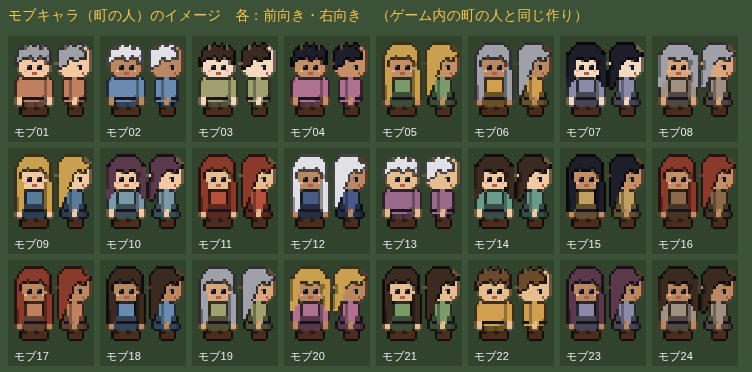
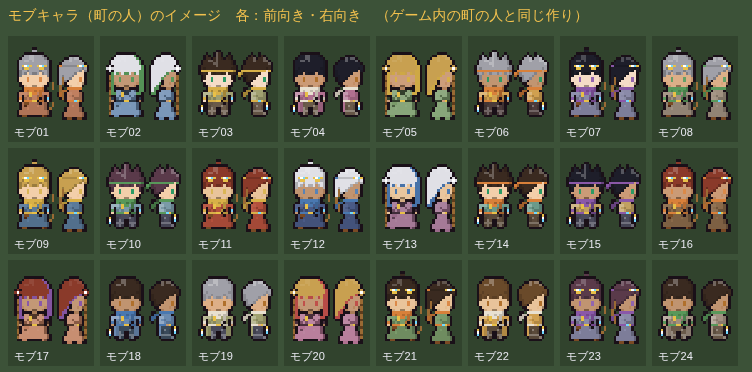
モブキャラを、ユーリ・ミナと同じ2頭身の作り（素体4種＋色の塗り替え）にする
Claude-Session: https://claude.ai/code/session_01TUFd7hBfF9NNQ4kEakAJkw

diff --git a/src/game/sprite/mob-walker-data.generated.ts b/src/game/sprite/mob-walker-data.generated.ts
@@ -1,0 +1,9 @@
+// 自動生成: tools/pixel-art/export_mob_walkers.py（手で編集しない）。町の人（モブ）の2頭身の素体4種
+export interface MobTemplate {
+  palette: string[];
+  roles: string[];
+  shade: number[];
+  frames: Record<string, string[]>;
+}
+
+export const MOB_TEMPLATES: Record<string, MobTemplate> = {"reto": {"palette": ["#1a1018", "#7a2020", "#c9434b", "#4d1219", "#e8b890", "#b0702c", "#c69266", "#e88468", "#904a3a", "#9a1c22", "#610f1d", "#85868b", "#4e4e52", "#e8c048", "#303133", "#5a3820", "#5a4030", "#38241d", "#a5735c", "#ffffff", "#70d8ff", "#b36b43", "#391e13", "#ffffff", "#1d3f9a", "#4d7bff", "#8ee6ff", "#5a1410", "#b8321a", "#ff7a2a", "#ffd36b"], "roles": ["fixed", "hair", "hair", "hair", "skin", "fixed", "skin", "skin", "skin", "accent", "accent", "top", "top", "fixed", "top", "bottom", "bottom", "bottom", "bottom", "fixed", "fixed", "bottom", "bottom", "fixed", "fixed", "fixed", "fixed", "fixed", "fixed", "fixed", "fixed"], "shade": [0.0, 0.0, 0.279, -0.145, 0.098, 0.0, -0.088, 0.0, -0.328, 0.0, -0.172, 0.275, 0.0, 0.0, -0.15, -0.039, 0.0, -0.13, 0.292, 0.0, 0.0, 0.265, -0.152, 0.0, 0.0, 0.0, 0.0, 0.0, 0.0, 0.0, 0.0], "frames": {"down0": ["................", "................", "................", "................", "....AAAAAAAA....", "...ABBCCBBBDA...", "..ABBBCCBBBBDA..", ".ABBCCBCBBBBBDA.", ".ABBBBBBBBBBBDA.", ".ABBBBBBBBBBBDA.", ".ABDBBBBBBBBDDA.", ".ADBBDBBBBDBBDA.", ".ADBDEBDDBEDBDA.", ".ADEEEEEEEEEEDA.", ".AEEEFEEEEFEEGA.", ".AEEEFEEEEFEEGA.", "..AHEEEEEEEEHA..", "..AAGEEIIEEGAA..", "...AJJJJJJJKA...", "..AAJKJJKJKKAA..", ".ALLLMNJJMKMMMA.", ".ALAMONMMOKOAMA.", ".AJAOMOMMKAOAKA.", ".AEAJJJNNAKKAGA.", ".AAMOPQQQRAOOA..", "ANAMOQQQQSQOOA..", "ATAMOSQAAQQOOA..", "AUAMOVVAAVVOOA..", ".A.AAVWAAPVAA...", "....AAA..AAA....", "................", "................"], "down1": ["................", "................", "................", "................", "....AAAAAAAA....", "...ABBCCBBBDA...", "..ABBBCCBBBBDA..", ".ABBCCBCBBBBBDA.", ".ABBBBBBBBBBBDA.", ".ABBBBBBBBBBBDA.", ".ABDBBBBBBBBDDA.", ".ADBBDBBBBDBBDA.", ".ADBDEBDDBEDBDA.", ".ADEEEEEEEEEEDA.", ".AEEEFEEEEFEEGA.", ".AEEEFEEEEFEEGA.", "..AHEEEEEEEEHA..", "..AAGEEIIEEGAA..", "...AJJJJJJJKA...", "..AAJKJJKJKKAA..", ".ALLLMNJJMKMMMA.", ".ALAMONMMOKOAKA.", ".AJAOMOMMKAOAGA.", ".AEAJJJNNAKKAA..", ".AAMOPQQQRAOOA..", "ANAMOQQQQSQOOA..", "ATAMOSQAAQQOOA..", "AUAMOQQAAVVOOA..", ".A.AAVVAAPVAA...", "...APPWA.AAA....", "....AAA.........", "................"], "down2": ["................", "................", "................", "................", "....AAAAAAAA....", "...ABBCCBBBDA...", "..ABBBCCBBBBDA..", ".ABBCCBCBBBBBDA.", ".ABBBBBBBBBBBDA.", ".ABBBBBBBBBBBDA.", ".ABDBBBBBBBBDDA.", ".ADBBDBBBBDBBDA.", ".ADBDEBDDBEDBDA.", ".ADEEEEEEEEEEDA.", ".AEEEFEEEEFEEGA.", ".AEEEFEEEEFEEGA.", "..AHEEEEEEEEHA..", "..AAGEEIIEEGAA..", "...AJJJJJJJKA...", "..AAJKJJKJKKAA..", ".ALLLMNJJMKMMMA.", ".ALAMONMMOKOAMA.", ".AJAOMOMMKAOAMA.", ".AEAJJJNNAKKAKA.", ".AAMOPQQQRAOOGA.", "ANAMOQQQQSQOOA..", "ATAMOSQAAQQOOA..", "AUAMOVVAARQOOA..", ".A.AAVWAAVVAA...", "....AAA.APPWA...", ".........AAA....", "................"], "up0": ["................", "................", "................", "................", "....AAAAAAAA....", "...ABBCCBBBDA...", "..ABBBCCBBBBDA..", ".ABBCCBCBBBBBDA.", ".ABBCBCBBBBBBDA.", ".ABBCBCBBBBBBDA.", ".ABBBBCBBBBBBDA.", ".ABBBBBBBBBBBDA.", ".ABBBBBBBBBBBDA.", ".ABBBBBBBBBBBDA.", ".ADBBBBBBBBBBDA.", ".ADDBBBBBBBBDDA.", "..ADDDBBBBDDDA..", "..AADDDDDDDDAA..", "...AJJJJJJJKA...", "..AAJJJJJJKKAA..", ".ALLLMMOMMMMMMA.", ".ALAMMOMMOMOAMA.", ".AJAOMMOOMMOAKA.", ".AEAJJJJJJJKAGA.", "..AMOQQQQQPOOAA.", "..AMOSQQQSQOOANA", "..AMOQQAAQQOOATA", "..AMOVVAAVVOOAUA", "...AAPWAAPWAA.A.", "....AAA..AAA....", "................", "................"], "up1": ["................", "................", "................", "................", "....AAAAAAAA....", "...ABBCCBBBDA...", "..ABBBCCBBBBDA..", ".ABBCCBCBBBBBDA.", ".ABBCBCBBBBBBDA.", ".ABBCBCBBBBBBDA.", ".ABBBBCBBBBBBDA.", ".ABBBBBBBBBBBDA.", ".ABBBBBBBBBBBDA.", ".ABBBBBBBBBBBDA.", ".ADBBBBBBBBBBDA.", ".ADDBBBBBBBBDDA.", "..ADDDBBBBDDDA..", "..AADDDDDDDDAA..", "...AJJJJJJJKA...", "..AAJJJJJJKKAA..", ".ALLLMMOMMMMMMA.", ".ALAMMOMMOMOAMA.", ".ALAOMMOOMMOAKA.", ".AJAJJJJJJJKAGA.", ".AEMOQQQQQPOOAA.", "..AMOSQQQSQOOANA", "..AMOQQAAQQOOATA", "..AMOQQAAVVOOAUA", "...AAVVAAPWAA.A.", "...APPWA.AAA....", "....AAA.........", "................"], "up2": ["................", "................", "................", "................", "....AAAAAAAA....", "...ABBCCBBBDA...", "..ABBBCCBBBBDA..", ".ABBCCBCBBBBBDA.", ".ABBCBCBBBBBBDA.", ".ABBCBCBBBBBBDA.", ".ABBBBCBBBBBBDA.", ".ABBBBBBBBBBBDA.", ".ABBBBBBBBBBBDA.", ".ABBBBBBBBBBBDA.", ".ADBBBBBBBBBBDA.", ".ADDBBBBBBBBDDA.", "..ADDDBBBBDDDA..", "..AADDDDDDDDAA..", "...AJJJJJJJKA...", "..AAJJJJJJKKAA..", ".ALLLMMOMMMMMMA.", ".AJAMMOMMOMOAMA.", ".AEAOMMOOMMOAKA.", "..AAJJJJJJJKAGA.", "..AMOQQQQQPOOAA.", "..AMOSQQQSQOOANA", "..AMOQQAAQQOOATA", "..AMOVVAARQOOAUA", "...AAPWAAVVAA.A.", "....AAA.APPWA...", ".........AAA....", "................"], "left0": ["................", "................", "................", "................", "................", "......AAAA......", ".....ACCBCAA....", "....ACBBBCBBA...", "...ABBBBBBBBBA..", "..ABBBBBBBBBBBA.", "..ABDBBBBBBBBBA.", "..ADEDBBBBBBBDA.", "...AEEEDBBBBBDA.", "...AEEEEDBBBDDA.", "...AEFEEEDBBDA..", "...AEFEEEEADDA..", "...AIEHEEEEAA...", "....AEEEEGAA....", ".....JJJJJJ.AA..", ".....AMMMMAKKA..", "....AOMMMLLAKKA.", "....AOMMOMLA.KA.", "....AOOOMLLA.A..", "....AKNEJJJA....", "...ANAQQQQMA....", "...ATARQSRMA....", "...AUARQQRMA....", "....AAVVVVMA....", "....AVPPPPA.....", ".....AAAAA......", "................", "................"], "left1": ["................", "................", "................", "................", "................", "......AAAA......", ".....ACCBCAA....", "....ACBBBCBBA...", "...ABBBBBBBBBA..", "..ABBBBBBBBBBBA.", "..ABDBBBBBBBBBA.", "..ADEDBBBBBBBDA.", "...AEEEDBBBBBDA.", "...AEEEEDBBBDDA.", "...AEFEEEDBBDA..", "...AEFEEEEADDA..", "...AIEHEEEEAA...", "....AEEEEGAAAA..", ".....JJJJJJ.KA..", ".....AMMMMAKKKA.", "....AOMMMLLA.KA.", "....AMMMOMLA.A..", "....AEOOMLLA....", "....AKNJJJJA....", "...ANAQQQQMA....", "...ATAQQSRMA....", "...AUARAAQMA....", "....AVVAAVMA....", "...AVPPAAVAA....", "....AAA..AA.....", "................", "................"], "left2": ["................", "................", "................", "................", "................", "......AAAA......", ".....ACCBCAA....", "....ACBBBCBBA...", "...ABBBBBBBBBA..", "..ABBBBBBBBBBBA.", "..ABDBBBBBBBBBA.", "..ADEDBBBBBBBDA.", "...AEEEDBBBBBDA.", "...AEEEEDBBBDDA.", "...AEFEEEDBBDA..", "...AEFEEEEADDA..", "...AIEHEEEEAA...", "....AEEEEGAA....", ".....JJJJJJ.AA..", ".....AMMMMAKKA..", "....AOMMMLLAKKA.", "....AOMMOMLA.KA.", "....AOOOMLOA.A..", "....AKNJJJEA....", "...ANAQQQQMA....", "...ATARRSQMA....", "...AUARAAQMA....", "....AVVAAVMA....", "...AVWWAAVAA....", "....AAA..AA.....", "................", "................"], "right0": ["................", "................", "................", "................", "................", "......AAAA......", "....AACBCCA.....", "...ABBCBBBCA....", "..ABBBBBBBBBA...", ".ABBBBBBBBBBBA..", ".ABBBBBBBBBDBA..", ".ADBBBBBBBDEDA..", ".ADBBBBBDEEEA...", ".ADDBBBDEEEEA...", "..ADBBDEEEFEA...", "..ADDAEEEEFEA...", "...AAEEEEHEIA...", "....AAGEEEEA....", "..AA.JJJJJJ.....", "..AKKAMMMMA.....", ".AKKALLMMMOA....", ".AK.ALMOMMOA....", "..A.ALLMOOOA....", "....AJJJENKA....", "....AMQQQQANA...", "....AMRSQRATA...", "....AMRQQRAUA...", "....AMVVVVAA....", ".....APPPPVA....", "......AAAAA.....", "................", "................"], "right1": ["................", "................", "................", "................", "................", "......AAAA......", "....AACBCCA.....", "...ABBCBBBCA....", "..ABBBBBBBBBA...", ".ABBBBBBBBBBBA..", ".ABBBBBBBBBDBA..", ".ADBBBBBBBDEDA..", ".ADBBBBBDEEEA...", ".ADDBBBDEEEEA...", "..ADBBDEEEFEA...", "..ADDAEEEEFEA...", "...AAEEEEHEIA...", "..AAAAGEEEEA....", "..AK.JJJJJJ.....", ".AKKKAMMMMA.....", ".AK.ALLMMMOA....", "..A.ALMOMMMA....", "....ALLMOOEA....", "....AJJJJNKA....", "....AMQQQQANA...", "....AMRSQQATA...", "....AMQAARAUA...", "....AMVAAVVA....", "....AAVAAPPVA...", ".....AA..AAA....", "................", "................"], "right2": ["................", "................", "................", "................", "................", "......AAAA......", "....AACBCCA.....", "...ABBCBBBCA....", "..ABBBBBBBBBA...", ".ABBBBBBBBBBBA..", ".ABBBBBBBBBDBA..", ".ADBBBBBBBDEDA..", ".ADBBBBBDEEEA...", ".ADDBBBDEEEEA...", "..ADBBDEEEFEA...", "..ADDAEEEEFEA...", "...AAEEEEHEIA...", "....AAGEEEEA....", "..AA.JJJJJJ.....", "..AKKAMMMMA.....", ".AKKALLMMMOA....", ".AK.ALMOMMOA....", "..A.AOLMOOOA....", "....AEJJJNKA....", "....AMQQQQANA...", "....AMQSRRATA...", "....AMQAARAUA...", "....AMVAAVVA....", "....AAVAAWWVA...", ".....AA..AAA....", "................", "................"]}}, "yuri": {"palette": ["#1a1018", "#de6849", "#a8401a", "#6a1c0e", "#f08a20", "#a26807", "#f2c49c", "#2c9a64", "#d39c6c", "#f28d70", "#964e3e", "#59c7cd", "#2a8a96", "#e8c048", "#184e5f", "#70d8ff", "#6a4020", "#7a5230", "#4d2d1d", "#432213", "#bb825c", "#ffffff", "#c17040", "#ffffff", "#1d3f9a", "#4d7bff", "#8ee6ff", "#5a1410", "#b8321a", "#ff7a2a", "#ffd36b"], "roles": ["fixed", "hair", "hair", "hair", "accent", "accent", "skin", "fixed", "skin", "skin", "skin", "top", "top", "fixed", "top", "fixed", "bottom", "bottom", "bottom", "bottom", "bottom", "fixed", "bottom", "fixed", "fixed", "fixed", "fixed", "fixed", "fixed", "fixed", "fixed"], "shade": [0.0, 0.248, 0.0, -0.181, 0.0, -0.252, 0.108, 0.0, -0.086, 0.0, -0.348, 0.25, 0.0, 0.0, -0.179, 0.0, -0.078, 0.0, -0.157, -0.206, 0.267, 0.0, 0.213, 0.0, 0.0, 0.0, 0.0, 0.0, 0.0, 0.0, 0.0], "frames": {"down0": ["................", "................", "................", ".......AA.......", "...A..ABCA..A...", "..ACA.ABCA.ADA..", "..ACCACBCDACDA..", ".ACCBBCBCCCCCDA.", ".ACCCCBBCCCCCDA.", "ACCCCCCBCCCCCCDA", "ACDCCCCCCCCCCDDA", "AEEEEEEEEEEEEEFA", "ADCDGCDCCDCGDCDA", ".ADGGGGGGGGGGDA.", ".ADGGHGGGGHGGDA.", ".AGGGHGGGGHGGIA.", "..AJGGGGGGGGJA..", "..AAIGGKKGGIAA..", "...AEEEEEEEFA...", "..AAEFEEFEFFAA..", ".ALLLMNEEMFMMMA.", ".ALAMONMMOFOAMA.", ".AEAOMOMMFAOAPA.", ".AGAEEENNAFFAIA.", ".AAAQQRRRSASAA..", "ANAATRRRRURSA...", "AVAASURAARRSA...", "APAAWWWAAWWWA...", ".A.AQWTAAQWTA...", "....AAA..AAA....", "................", "................"], "down1": ["................", "................", "................", ".......AA.......", "...A..ABCA..A...", "..ACA.ABCA.ADA..", "..ACCACBCDACDA..", ".ACCBBCBCCCCCDA.", ".ACCCCBBCCCCCDA.", "ACCCCCCBCCCCCCDA", "ACDCCCCCCCCCCDDA", "AEEEEEEEEEEEEEFA", "ADCDGCDCCDCGDCDA", ".ADGGGGGGGGGGDA.", ".ADGGHGGGGHGGDA.", ".AGGGHGGGGHGGIA.", "..AJGGGGGGGGJA..", "..AAIGGKKGGIAA..", "...AEEEEEEEFA...", "..AAEFEEFEFFAA..", ".ALLLMNEEMFMMMA.", ".ALAMONMMOFOAPA.", ".AEAOMOMMFAOAIA.", ".AGAEEENNAFFAA..", ".AAAQQRRRSASAA..", "ANAATRRRRURSA...", "AVAASURAARRSA...", "APAASRRAAWWWA...", ".A.AWWWAAQWTA...", "...AQQTA.AAA....", "....AAA.........", "................"], "down2": ["................", "................", "................", ".......AA.......", "...A..ABCA..A...", "..ACA.ABCA.ADA..", "..ACCACBCDACDA..", ".ACCBBCBCCCCCDA.", ".ACCCCBBCCCCCDA.", "ACCCCCCBCCCCCCDA", "ACDCCCCCCCCCCDDA", "AEEEEEEEEEEEEEFA", "ADCDGCDCCDCGDCDA", ".ADGGGGGGGGGGDA.", ".ADGGHGGGGHGGDA.", ".AGGGHGGGGHGGIA.", "..AJGGGGGGGGJA..", "..AAIGGKKGGIAA..", "...AEEEEEEEFA...", "..AAEFEEFEFFAA..", ".ALLLMNEEMFMMMA.", ".ALAMONMMOFOAMA.", ".AEAOMOMMFAOAMA.", ".AGAEEENNAFFAPA.", ".AAAQQRRRSASAIA.", "ANAATRRRRURSAA..", "AVAASURAARRSA...", "APAAWWWAASRSA...", ".A.AQWTAAWWWA...", "....AAA.AQQTA...", ".........AAA....", "................"], "up0": ["................", "................", "................", ".......AA.......", "...A..ABCA..A...", "..ACA.ABCA.ADA..", "..ACCACBCDACDA..", ".ACCBBCBCCCCCDA.", ".ACCBCBBCCCCCDA.", "ACCCBCBBCCCCCCDA", "AEEEEEEFFEEEEEFA", "ACCCCCCEFCCCCCDA", "ACCCCCCECCCCCCDA", ".ACCCCCCCCCCCDA.", ".ADCCCCCCCCCCDA.", ".ADDCCCCCCCCDDA.", "..ADDDCCCCDDDA..", "..AADDDDDDDDAA..", "...AEEEEEEEFA...", "..AAEEEEEEFFAA..", ".ALLLMMOMMMMMMA.", ".ALAMMOMMOMOAMA.", ".APAOMMOOMMOAFA.", ".AGAEEEEEEEFAIA.", "..AARRRRRRQTAAA.", "...ASURRRURTAANA", "...ASRRAARRSAAVA", "...AWWWAAWWWAAPA", "...AQQTAAQQTA.A.", "....AAA..AAA....", "................", "................"], "up1": ["................", "................", "................", ".......AA.......", "...A..ABCA..A...", "..ACA.ABCA.ADA..", "..ACCACBCDACDA..", ".ACCBBCBCCCCCDA.", ".ACCBCBBCCCCCDA.", "ACCCBCBBCCCCCCDA", "AEEEEEEFFEEEEEFA", "ACCCCCCEFCCCCCDA", "ACCCCCECCCCCCCDA", ".ACCCCCCCCCCCDA.", ".ADCCCCCCCCCCDA.", ".ADDCCCCCCCCDDA.", "..ADDDCCCCDDDA..", "..AADDDDDDDDAA..", "...AEEEEEEEFA...", "..AAEEEEEEFFAA..", ".ALLLMMOMMMMMMA.", ".ALAMMOMMOMOAMA.", ".ALAOMMOOMMOAFA.", ".APAEEEEEEEFAIA.", ".AGARRRRRRQTAAA.", "..AASURRRURTAANA", "...ASRRAARRSAAVA", "...ASRRAAWWWAAPA", "...AWWWAAQQTA.A.", "...AQQTA.AAA....", "....AAA.........", "................"], "up2": ["................", "................", "................", ".......AA.......", "...A..ABCA..A...", "..ACA.ABCA.ADA..", "..ACCACBCDACDA..", ".ACCBBCBCCCCCDA.", ".ACCBCBBCCCCCDA.", "ACCCBCBBCCCCCCDA", "AEEEEEEFFEEEEEFA", "ACCCCCCEFCCCCCDA", "ACCCCCCCECCCCCDA", ".ACCCCCCCCCCCDA.", ".ADCCCCCCCCCCDA.", ".ADDCCCCCCCCDDA.", "..ADDDCCCCDDDA..", "..AADDDDDDDDAA..", "...AEEEEEEEFA...", "..AAEEEEEEFFAA..", ".ALLLMMOMMMMMMA.", ".APAMMOMMOMOAMA.", ".AGAOMMOOMMOAFA.", "..AAEEEEEEEFAIA.", "..AARRRRRRQTAAA.", "...ASURRRURTAANA", "...ASRRAARRSAAVA", "...AWWWAASRSAAPA", "...AQQTAAWWWA.A.", "....AAA.AQQTA...", ".........AAA....", "................"], "left0": ["................", "................", "................", "................", ".......A..A.....", ".....ACA.ACA....", "....ABCCABCCA...", "...ABBCCCBCCCA..", "..ABCCCCCCCCCA..", "..ACCCCCCCCCCCA.", "..ACDCCCCCCCCCA.", "..AEGEEEEEEEEEEA", "...AGGGDCCCCCDFE", "...AGGGGDCCCDDAF", "...AGHGGGDCCDA.A", "...AGHGGGGADDA..", "...AKGJGGGGAA...", "....AGGGGIAA....", ".....EEEEEE.AA..", ".....AMMMMAFFA..", "....AOMMMLLAFFA.", "....AOMMOMLA.FA.", "....AOOOMLLA.A..", "....AFNPEEEA....", "...ANARRRRA.....", "...AVASRUSA.....", "...APASRRSA.....", "....AAWWWWA.....", "....AWQQQQA.....", ".....AAAAA......", "................", "................"], "left1": ["................", "................", "................", "................", ".......A..A.....", ".....ACA.ACA....", "....ABCCABCCA...", "...ABBCCCBCCCA..", "..ABCCCCCCCCCA..", "..ACCCCCCCCCCCA.", "..ACDCCCCCCCCCEA", "..AEGEEEEEEEEEFE", "...AGGGDCCCCCDAF", "...AGGGGDCCCDDAA", "...AGHGGGDCCDA..", "...AGHGGGGADDA..", "...AKGJGGGGAA...", "....AGGGGIAAAA..", ".....EEEEEE.FA..", ".....AMMMMAFFFA.", "....AOMMMLLA.FA.", "....AMMMOMLA.A..", "....APOOMLLA....", "....AFNEEEEA....", "...ANARRRRA.....", "...AVARRUSA.....", "...APASAARSA....", "....AWWAAWWA....", "...AWQQAAWQA....", "....AAA..AA.....", "................", "................"], "left2": ["................", "................", "................", "................", ".......A..A.....", ".....ACA.ACA....", "....ABCCABCCA...", "...ABBCCCBCCCA..", "..ABCCCCCCCCCA..", "..ACCCCCCCCCCCA.", "..ACDCCCCCCCCCA.", "..AEGEEEEEEEEEEA", "...AGGGDCCCCCDFE", "...AGGGGDCCCDDAF", "...AGHGGGDCCDA.A", "...AGHGGGGADDA..", "...AKGJGGGGAA...", "....AGGGGIAA....", ".....EEEEEE.AA..", ".....AMMMMAFFA..", "....AOMMMLLAFFA.", "....AOMMOMLA.FA.", "....AOOOMLOA.A..", "....AFNEEEPA....", "...ANARRRRA.....", "...AVASSURA.....", "...APASAARRA....", "....AWWAAWWA....", "...AWTTAAWQA....", "....AAA..AA.....", "................", "................"], "right0": ["................", "................", "................", "................", ".....A..A.......", "....ACA.ACA.....", "...ACCBACCBA....", "..ACCCBCCCBBA...", "..ACCCCCCCCCBA..", ".ACCCCCCCCCCCA..", ".ACCCCCCCCCDCA..", "AEEEEEEEEEEGEA..", "EFDCCCCCDGGGA...", "FADDCCCDGGGGA...", "A.ADCCDGGGHGA...", "..ADDAGGGGHGA...", "...AAGGGGJGKA...", "....AAIGGGGA....", "..AA.EEEEEE.....", "..AFFAMMMMA.....", ".AFFALLMMMOA....", ".AF.ALMOMMOA....", "..A.ALLMOOOA....", "....AEEEPNFA....", ".....ARRRRANA...", ".....ASURSAVA...", ".....ASRRSAPA...", ".....AWWWWAA....", ".....AQQQQWA....", "......AAAAA.....", "................", "................"], "right1": ["................", "................", "................", "................", ".....A..A.......", "....ACA.ACA.....", "...ACCBACCBA....", "..ACCCBCCCBBA...", "..ACCCCCCCCCBA..", ".ACCCCCCCCCCCA..", "AECCCCCCCCCDCA..", "EFEEEEEEEEEGEA..", "FADCCCCCDGGGA...", "AADDCCCDGGGGA...", "..ADCCDGGGHGA...", "..ADDAGGGGHGA...", "...AAGGGGJGKA...", "..AAAAIGGGGA....", "..AF.EEEEEE.....", ".AFFFAMMMMA.....", ".AF.ALLMMMOA....", "..A.ALMOMMMA....", "....ALLMOOPA....", "....AEEEENFA....", ".....ARRRRANA...", ".....ASURRAVA...", "....ASRAASAPA...", "....AWWAAWWA....", "....AQWAAQQWA...", ".....AA..AAA....", "................", "................"], "right2": ["................", "................", "................", "................", ".....A..A.......", "....ACA.ACA.....", "...ACCBACCBA....", "..ACCCBCCCBBA...", "..ACCCCCCCCCBA..", ".ACCCCCCCCCCCA..", ".ACCCCCCCCCDCA..", "AEEEEEEEEEEGEA..", "EFDCCCCCDGGGA...", "FADDCCCDGGGGA...", "A.ADCCDGGGHGA...", "..ADDAGGGGHGA...", "...AAGGGGJGKA...", "....AAIGGGGA....", "..AA.EEEEEE.....", "..AFFAMMMMA.....", ".AFFALLMMMOA....", ".AF.ALMOMMOA....", "..A.AOLMOOOA....", "....APEEENFA....", ".....ARRRRANA...", ".....ARUSSAVA...", "....ARRAASAPA...", "....AWWAAWWA....", "....AQWAATTWA...", ".....AA..AAA....", "................", "................"]}}, "mina": {"palette": ["#1a1018", "#a8d4f4", "#c5e5f6", "#1877e7", "#8ad8ff", "#ffffff", "#f8dcc8", "#9a6a34", "#3a7ad8", "#5e3c1c", "#f89e90", "#dcac8a", "#9a5850", "#e8f2fc", "#2a4a8a", "#4182eb", "#f0f7fd", "#e8c048", "#193557", "#d8e8f8", "#b8d0ec", "#3f7ce1", "#366ace", "#e5f1fa", "#ffffff", "#1d3f9a", "#4d7bff", "#8ee6ff", "#5a1410", "#b8321a", "#ff7a2a", "#ffd36b"], "roles": ["fixed", "hair", "hair", "accent", "hair", "fixed", "skin", "fixed", "accent", "fixed", "skin", "skin", "skin", "top", "top", "top", "top", "fixed", "top", "top", "top", "top", "top", "top", "fixed", "fixed", "fixed", "fixed", "fixed", "fixed", "fixed", "fixed"], "shade": [0.0, 0.0, 0.076, -0.047, -0.047, 0.0, 0.137, 0.0, 0.0, 0.0, 0.0, -0.083, -0.387, 0.157, -0.588, -0.294, 0.179, 0.0, -0.6, 0.108, 0.0, -0.324, -0.392, 0.145, 0.0, 0.0, 0.0, 0.0, 0.0, 0.0, 0.0, 0.0], "frames": {"down0": ["................", "................", "................", "................", "....AAAAAAAA....", "...ABBCCBBBDA...", "..ABBBCCBBBBDA..", ".ABBCCBCBBBBBDA.", ".ABBBBBBBBBBBDA.", "AEABBBBBBBBBBBDA", "EFEBBBBBBBBBBBDA", "AEABBBBBBBBBBDDA", "AADBDGBDDBGDBDDA", "AHDGGGGGGGGGGDDA", "AHDGGIGGGGIGGDDA", "AJDGGIGGGGIGGDDA", "AHDKGGGGGGGGKDDA", "AHDALGGMMGGLADDA", "AJDAAAALLAAAADDA", "AHDANNOOOONPADDA", ".HDDQNROONNNDDA.", ".JAANPRNNPNPAAA.", ".HOAPNPNNNPPASA.", ".HGAOOORROOSALA.", ".JATUUTTTTTTVA..", ".HATWTTTTXTTVA..", ".HATTXTTTTTTVA..", ".JTTTTTTTTTTTVA.", ".HTTTTTTTTTTTVA.", ".AAUUAAAAAAUWAA.", "................", "................"], "down1": ["................", "................", "................", "................", "....AAAAAAAA....", "...ABBCCBBBDA...", "..ABBBCCBBBBDA..", ".ABBCCBCBBBBBDA.", ".ABBBBBBBBBBBDA.", "AABBBBBBBBBBBBDA", "AEABBBBBBBBBBBDA", "EFEBBBBBBBBBBDDA", "AEABDGBDDBGDBDDA", "AADGGGGGGGGGGDDA", "AHDGGIGGGGIGGDDA", "AJDGGIGGGGIGGDDA", "AHDKGGGGGGGGKDDA", ".HBDAGGMMGGLADDA", ".JBDAAALLAAAADDA", ".HDDANOOOONPADDA", ".HADDNROONNNDDA.", ".JAANPRNNPNPAAA.", ".HAAPNPNNNPPASA.", ".HOAOOORROOSALA.", ".JGTUUTTTTTTVA..", ".HATWTTTTXTTVA..", ".HATTXTTTTTTVA..", ".JTTTTTTTTTTTVA.", ".HTTTTTTTTTTTVA.", ".HAUUAAAAAAAAA..", ".A..............", "................"], "down2": ["................", "................", "................", "................", "....AAAAAAAA....", "...ABBCCBBBDA...", "..ABBBCCBBBBDA..", ".ABBCCBCBBBBBDA.", ".ABBBBBBBBBBBDA.", "AEABBBBBBBBBBBDA", "EFEBBBBBBBBBBBDA", "AEABBBBBBBBBBDDA", "AADBDGBDDBGDBDDA", "AHDGGGGGGGGGGDDA", "AHDGGIGGGGIGGDDA", "AJDGGIGGGGIGGDDA", "AHDKGGGGGGGGKDDA", "AHDALGGMMGLADDA.", "AJDAAAALLAAADDA.", "AHDANNOOOOPADDA.", ".HDDQNROONNDDAA.", ".JAANPRNNPNPAAA.", ".HOAPNPNNNPPAAA.", ".HGAOOORROOSASA.", ".JATUUTTTTTTTLA.", ".HATWTTTTXTTVA..", ".HATTXTTTTTTVA..", ".JTTTTTTTTTTTVA.", ".HTTTTTTTTTTTVA.", ".AAAAAAAAAAUWAA.", "................", "................"], "up0": ["................", "................", "................", "................", "....AAAAAAAA....", "...ABBCCBBBDA...", "..ABBBCCBBBBDA..", ".ABBCCBCBBBBBDA.", ".ABBCBCBBBBBBDA.", "ABBBCBCBBBBBDAEA", "ABBBBBCBBBBBBEFE", "ABBBBBBBBBBBDAEA", "ABBBBBBBBBBBBDAA", "ABBBBBBBBBBBBBHA", "ABBBBBBBBBBBBBHA", "ABBBBBBBBBBBBBJA", "ABBBBBBBBBBBBBHA", "ABBBBBBBBBBBBBHA", "ABBBBBBBBBBBBBJA", "ADBBBBBBBBBBBBHA", ".ADDBBBBBBBBDDH.", ".ADDDDBBBBDDDDJ.", ".AAAAAAAAAAAAAH.", ".AGAOOOOOOOSAGH.", "..ATTTTTTTUUVAJ.", "..ATTXTTTXTWVAH.", "..ATTTTTTTTTVAH.", ".ATTTTTTTTTTTTJ.", ".ATTTTTTTTTTTVH.", ".AAUUAAAAAAUWAA.", "................", "................"], "up1": ["................", "................", "................", "................", "....AAAAAAAA....", "...ABBCCBBBDA...", "..ABBBCCBBBBDA..", ".ABBCCBCBBBBBDA.", ".ABBCBCBBBBBBDA.", "ABBBCBCBBBBBDAEA", "ABBBBBCBBBBBBEFE", "ABBBBBBBBBBBDAEA", "ABBBBBBBBBBBBDAA", "ABBBBBBBBBBBBBHA", "ABBBBBBBBBBBBBHA", "ABBBBBBBBBBBBBJA", "ABBBBBBBBBBBBBHA", "ABBBBBBBBBBBBBHA", ".ABBBBBBBBBBBBJA", ".ADBBBBBBBBBBBHA", ".AADDBBBBBBBDDH.", ".AADDDDBBBDDDDJ.", ".AAAAAAAAAAAAAH.", ".AOAOOOOOOOSAGH.", ".AGTTTTTTTUUVAJ.", "..ATTXTTTXTWVAH.", "..ATTTTTTTTTVAH.", ".ATTTTTTTTTTTTJ.", ".ATTTTTTTTTTTVH.", ".AAUUAAAAAAAAAA.", "................", "................"], "up2": ["................", "................", "................", "................", "....AAAAAAAA....", "...ABBCCBBBDA...", "..ABBBCCBBBBDA..", ".ABBCCBCBBBBBDA.", ".ABBCBCBBBBBBDA.", "ABBBCBCBBBBBBDAA", "ABBBBBCBBBBBDAEA", "ABBBBBBBBBBBBEFE", "ABBBBBBBBBBBDAEA", "ABBBBBBBBBBBBDAA", "ABBBBBBBBBBBBBHA", "ABBBBBBBBBBBBBJA", "ABBBBBBBBBBBBBHA", "ABBBBBBBBBBBBBHA", "ABBBBBBBBBBBBBJ.", "ADBBBBBBBBBBBDH.", ".ADDBBBBBBBDDAH.", ".ADDDDBBBDDDDAJ.", ".AAAAAAAAAAAAAH.", ".AGAOOOOOOOSAOH.", "..ATTTTTTTUUTGJ.", "..ATTXTTTXTWVAH.", "..ATTTTTTTTTVAH.", ".ATTTTTTTTTTTTJ.", ".ATTTTTTTTTTTVH.", "..AAAAAAAAAUWAH.", "..............A.", "................"], "left0": ["................", "................", "................", "................", "......AAAA......", ".....ACCBBAA....", "....ACCBBCBBA...", "...ACBBBBCBBBA..", "...ABBBBBBBBBA..", "..AEABBBBBBBBBA.", "..EFEBBBBBBBBBA.", "..AEADBBBBBBBBA.", "...AGGGDBBBBBBA.", "...HGGGGDBBBBBA.", "...HGIGGGDBBBBA.", "...JGIGGGABBBBA.", "...HMGKGGADBBBA.", "...HAGGGGLADBBA.", "...J.ALLAAADDBA.", "...H.ANNNNAADBA.", "...HAPNNNQQADDA.", "...JAPNNPNQAAA..", "...HAPPPNQQA....", "...HASRGOOOA....", "...J.ATTTTA.....", "...H.ATTXTA.....", "...HAVTTTTTA....", "...JAVTTTTTA....", "...HVTTTTTTTA...", "...AVTTTTTTTA...", "...AAUUAAUUAA...", "................"], "left1": ["................", "................", "................", "................", "......AAAA......", ".....ACCBBAA....", "....ACCBBCBBA...", "...ACBBBBCBBBA..", "..AEABBBBBBBBA..", "..EFEBBBBBBBBBA.", "..AEABBBBBBBBBA.", "..AAGDBBBBBBBBA.", "...JGGGDBBBBBBA.", "...HGGGGDBBBBBA.", "...HGIGGGDBBBBA.", "...JGIGGGABBBBA.", "...HMGKGGADBBBA.", "...HAGGGGLAADBBA", "...J.ALLAAAADDBA", "...H.ANNNNA.ADBA", "...HAPNNNQQAADDA", "...JANNNPNQA.AA.", "...HAGPPNQQA....", "...HASROOOOA....", "...J.ATTTTA.....", "...H.ATTXTA.....", "...HAVTTTTTA....", "...JAVTTTTTA....", "...AVTTTTTTTA...", "....VTTTTTTTA...", "...AUUUAAAAAA...", "................"], "left2": ["................", "................", "................", "................", "......AAAA......", ".....ACCBBAA....", "....ACCBBCBBA...", "...ACBBBBCBBBA..", "...ABBBBBBBBBA..", "..AABBBBBBBBBBA.", "..AEABBBBBBBBBA.", "..EFEDBBBBBBBBA.", "..AEAGGDBBBBBBA.", "...AGGGGDBBBBBA.", "...HGIGGGDBBBBA.", "...JGIGGGABBBBA.", "...HMGKGGADBBBA.", "...HAGGGGLADBBA.", "...J.ALLAAADDBA.", "...H.ANNNNA.ADBA", "...HAPNNNQQAADDA", "...JAPNNPNQA.AA.", "...HAPPPNQPA....", "...HASROOOGA....", "...J.ATTTTA.....", "...H.ATTXTA.....", "...HAVTTTTTA....", "...JAVTTTTTA....", "...HVTTTTTTTA...", "...HVTTTTTTTA...", "...AAAAAAAUUA...", "................"], "right0": ["................", "................", "................", "................", "......AAAA......", "....AABBCCA.....", "...ABBCBBCCA....", "..ABBBCBBBBCA...", "..ABBBBBBBBBA...", ".ABBBBBBBBBAEA..", ".ABBBBBBBBBEFE..", ".ABBBBBBBBDAEA..", ".ABBBBBBDGGGA...", ".ABBBBBDGGGGH...", ".ABBBBDGGGIGH...", ".ABBBBAGGGIGJ...", ".ABBBDAGGKGMH...", ".ABBDALGGGGAH...", ".ABDDAAALLA.J...", ".ABDAANNNNA.H...", ".ADDAQQNNNPAH...", "..AAAQNPNNPAJ...", "....AQQNPPPAH...", "....AOOOGRSAH...", ".....ATTTTA.J...", ".....ATXTTA.H...", "....ATTTTTVAH...", "....ATTTTTVAJ...", "...ATTTTTTTVH...", "...ATTTTTTTVA...", "...AAUUAAUUAA...", "................"], "right1": ["................", "................", "................", "................", "......AAAA......", "....AABBCCA.....", "...ABBCBBCCA....", "..ABBBCBBBBCA...", "..ABBBBBBBBAEA..", ".ABBBBBBBBBEFE..", ".ABBBBBBBBBAEA..", ".ABBBBBBBBDGAA..", ".ABBBBBBDGGGJ...", ".ABBBBBDGGGGH...", ".ABBBBDGGGIGH...", ".ABBBBAGGGIGJ...", ".ABBBDAGGKGMH...", "ABBDAALGGGGAH...", "ABDDAAAALLA.J...", "ABDA.ANNNNA.H...", "ADDAAQQNNNPAH...", ".AA.AQNPNNNAJ...", "....AQQNPPGAH...", "....AOOOORSAH...", ".....ATTTTA.J...", ".....ATXTTA.H...", "....ATTTTTVAH...", "....ATTTTTVAJ...", "...ATTTTTTTVA...", "...ATTTTTTTV....", "...AAAAAAUUUA...", "................"], "right2": ["................", "................", "................", "................", "......AAAA......", "....AABBCCA.....", "...ABBCBBCCA....", "..ABBBCBBBBCA...", "..ABBBBBBBBBA...", ".ABBBBBBBBBBAA..", ".ABBBBBBBBBAEA..", ".ABBBBBBBBDEFE..", ".ABBBBBBDGGAEA..", ".ABBBBBDGGGGA...", ".ABBBBDGGGIGH...", ".ABBBBAGGGIGJ...", ".ABBBDAGGKGMH...", ".ABBDALGGGGAH...", ".ABDDAAALLA.J...", "ABDA.ANNNNA.H...", "ADDAAQQNNNPAH...", ".AA.AQNPNNPAJ...", "....APQNPPPAH...", "....AGOOORSAH...", ".....ATTTTA.J...", ".....ATXTTA.H...", "....ATTTTTVAH...", "....ATTTTTVAJ...", "...ATTTTTTTVH...", "...ATTTTTTTVH...", "...AUUAAAAAAA...", "................"]}}, "guide": {"palette": ["#1a1018", "#d8901c", "#e7ac62", "#89690e", "#e8c048", "#ffffff", "#70d8ff", "#f0c098", "#3a9a4a", "#d0986a", "#f08a6d", "#9a6a34", "#954d3d", "#3a7a3a", "#234d28", "#f1e8d8", "#ece0c4", "#cab98f", "#e0d0aa", "#7a4a24", "#bdab7e", "#4d2715", "#e9ddc6", "#9a6a1c", "#e4ecf4", "#ffffff", "#1d3f9a", "#4d7bff", "#8ee6ff", "#5a1410", "#b8321a", "#ff7a2a", "#ffd36b"], "roles": ["fixed", "hair", "hair", "hair", "fixed", "fixed", "fixed", "skin", "accent", "skin", "skin", "fixed", "skin", "accent", "accent", "top", "top", "top", "top", "fixed", "top", "fixed", "top", "hair", "top", "fixed", "fixed", "fixed", "fixed", "fixed", "fixed", "fixed", "fixed"], "shade": [0.0, 0.0, 0.208, -0.228, 0.0, 0.0, 0.0, 0.105, 0.078, -0.086, 0.0, 0.0, -0.341, 0.0, -0.167, 0.064, 0.002, -0.211, -0.091, 0.0, -0.284, 0.0, 0.0, -0.152, 0.1, 0.0, 0.0, 0.0, 0.0, 0.0, 0.0, 0.0, 0.0], "frames": {"down0": ["................", "................", ".......AA.......", ".......BB.......", "....AAAAAAAA....", "...ABBCCBBBDA...", "..ABBBCCBBBBDA..", ".ABBCCBCBBBBBDA.", ".ABBBBBBBBBBBDA.", ".ABEFGEBBEFGEDA.", ".ABDEEBBBBEEDDA.", ".ADBBDBBBBDBBDA.", ".ADBDHBDDBHDBDA.", ".ADHHHHHHHHHHDA.", ".AHHHIHHHHIHHJA.", ".AHHHIHHHHIHHJA.", "..AKHHHHHHHHKA.L", "..AAJHHMMHHJAA.L", "...ANNNNNNNOA..L", "..AANONNONOOAA..", ".APPPQENNQOQQQA.", ".APAQREQQRORAQA.", ".ANARQRQQOARAGA.", ".AHANNNEEAOOAJA.", "..ASTTSSSUASUA.L", "..ASVSSSSWSSUA.L", "..ASSWSSSSSSUAL.", ".ASSSSSSSSSSSUA.", ".ASSSSSSSSSSSUA.", ".AATTAAAAAATVAA.", "................", "................"], "down1": ["................", "................", ".......AA.......", ".......BB.......", "....AAAAAAAA....", "...ABBCCBBBDA...", "..ABBBCCBBBBDA..", ".ABBCCBCBBBBBDA.", ".ABBBBBBBBBBBDA.", ".ABEFGEBBEFGEDA.", ".ABDEEBBBBEEDDA.", ".ADBBDBBBBDBBDA.", ".ADBDHBDDBHDBDA.", ".ADHHHHHHHHHHDA.", ".AHHHIHHHHIHHJA.", ".AHHHIHHHHIHHJA.", "..AKHHHHHHHHKA.L", "..AAJHHMMHHJAA.L", "...ANNNNNNNOA..L", "..AANONNONOOAA..", ".APPPQENNQOQQQA.", ".APAQREQQRORAGA.", ".APARQRQQOARAJA.", ".ANANNNEEAOOAA..", ".AHSTTSSSUASUA.L", "..ASVSSSSWSSUA.L", "..ASSWSSSSSSUAL.", ".ASSSSSSSSSSSUA.", ".ASSSSSSSSSSSUA.", ".AATTAAAAAAAAA..", "................", "................"], "down2": ["................", "................", ".......AA.......", ".......BB.......", "....AAAAAAAA....", "...ABBCCBBBDA...", "..ABBBCCBBBBDA..", ".ABBCCBCBBBBBDA.", ".ABBBBBBBBBBBDA.", ".ABEFGEBBEFGEDA.", ".ABDEEBBBBEEDDA.", ".ADBBDBBBBDBBDA.", ".ADBDHBDDBHDBDA.", ".ADHHHHHHHHHHDA.", ".AHHHIHHHHIHHJA.", ".AHHHIHHHHIHHJA.", "..AKHHHHHHHHKA.L", "..AAJHHMMHHJAA.L", "...ANNNNNNNOA..L", "..AANONNONOOAA..", ".APPPQENNQOQQQA.", ".ANAQREQQRORAQA.", ".AHARQRQQOARAQA.", "..AANNNEEAOOAGA.", "..ASTTSSSUASSJAL", "..ASVSSSSWSSUA.L", "..ASSWSSSSSSUAL.", ".ASSSSSSSSSSSUA.", ".ASSSSSSSSSSSUA.", "..AAAAAAAAATVAA.", "................", "................"], "up0": ["................", "................", "................", "................", "....AAAAAAAA....", "...ABBCCBBBDA...", "..ABBBCCBBBBDA..", ".ABBCCBCBBBBBDA.", ".ABBCBCBBBBBBDA.", ".ABBCBCBBBBBBDA.", ".AXXXXXXXXXXXXA.", ".ABBBBANOABBBDA.", ".ABBBBABDABBBDA.", ".ABLBBYBDABBBDA.", ".ADLBBYBDABBBDA.", ".ADLBBYBDABBDDA.", "..ADLDYBDADDDA..", "..AALDYBDADDAA..", "...ALNYBDANOA...", "..AALNYBDAOOAA..", ".APLPQYAAQQQQQA.", ".APLQQYQQRQRAQA.", ".AGLRQYRRQQRAOA.", ".AHANNNNNNNOAJA.", "..ASSSSSSSTTUA..", "..ASSWSSSWSVUA..", "..ASSSSSSSSSUA..", ".ASSSSSSSSSSSUA.", ".ASSSSSSSSSSSUA.", ".AATTAAAAAATVAA.", "................", "................"], "up1": ["................", "................", "................", "................", "....AAAAAAAA....", "...ABBCCBBBDA...", "..ABBBCCBBBBDA..", ".ABBCCBCBBBBBDA.", ".ABBCBCBBBBBBDA.", ".ABBCBCBBBBBBDA.", ".AXXXXXXXXXXXXA.", ".ABBBBANOABBBDA.", ".ABBBBABDABBBDA.", ".ABLBBYBDABBBDA.", ".ADLBBYBDABBBDA.", ".ADLBAYDABBBDDA.", "..ADLAYDABDDDA..", "..AALAYDADDDAA..", "...ALAYDANNOA...", "..AALAYDANOOAA..", ".APLPQYAQQQQQQA.", ".APLQQYQQRQRAOA.", ".APLRQYRRQQRAJA.", ".AGANNNNNNNOAA..", ".AHSSSSSSSTTUA..", "..ASSWSSSWSVUA..", "..ASSSSSSSSSUA..", ".ASSSSSSSSSSSUA.", ".ASSSSSSSSSSSUA.", ".AATTAAAAAAAAA..", "................", "................"], "up2": ["................", "................", "................", "................", "....AAAAAAAA....", "...ABBCCBBBDA...", "..ABBBCCBBBBDA..", ".ABBCCBCBBBBBDA.", ".ABBCBCBBBBBBDA.", ".ABBCBCBBBBBBDA.", ".AXXXXXXXXXXXXA.", ".ABBBBANOABBBDA.", ".ABBBBABDABBBDA.", ".ABLBBYBDABBBDA.", ".ADLBBYBDABBBDA.", ".ADLBBYABDABDDA.", "..ADLDYABDADDA..", "..AALDYABDADAA..", "...ALNYABDAOA...", "..AALNYABDAOAA..", ".APLPQYRAAQQQQA.", ".AGLQQYQQRQRAQA.", ".AHLRQYRRQQRAQA.", "..AANNNNNNNOAOA.", "..ASSSSSSSTTSJA.", "..ASSWSSSWSVUA..", "..ASSSSSSSSSUA..", ".ASSSSSSSSSSSUA.", ".ASSSSSSSSSSSUA.", "..AAAAAAAAATVAA.", "................", "................"], "left0": ["................", "................", "................", "................", "................", "......AAAA......", ".....ACCBCAA....", "....ACBBBCBBA...", "...ABBBBBBBBBA..", "..AEGFEXXXXXXNA.", "..ABDBBBBBBBBBA.", "..ADHDBBBBBBBBA.", "...AHHHDBBBBBBA.", "...AHHHHDBBBDBA.", "...AHIHHHDBBLBA.", "...AHIHHHHADLBA.", "...AMHKHHHHALBA.", "....AHHHHJAA.L..", ".....NNNNNN.AL..", ".....AQQQQAOOL..", "....ARQQQPPALOA.", "....ARQQRQPALOA.", "....ARRRQPPALA..", "....AOEGNNNA....", ".....ASSSSA.....", ".....ASSWSA.....", "....AUSSSSSA....", "....AUSSSSSA....", "...AUSSSSSSSA...", "...AUSSSSSSSA...", "...AATTAATTAA...", "................"], "left1": ["................", "................", "................", "................", "................", "......AAAA......", ".....ACCBCAA....", "....ACBBBCBBA...", "...ABBBBBBBBBA..", "..AEGFEXXXXXXNA.", "..ABDBBBBBBBBBA.", "..ADHDBBBBBBBBA.", "...AHHHDBBBBBDBA", "...AHHHHDBBBDDBA", "...AHIHHHDHBLDBA", "...AHIHHHHHALDBA", "...AMHKHHHHALABA", "....AHHHHJAAALA.", ".....NNNNNN.OL..", ".....AQQQQAOOLA.", "....ARQQQPPALOA.", "....AQQQRQPALA..", "....AGRRQPPAL...", "....AOENNNNA....", ".....ASSSSA.....", ".....ASSWSA.....", "....AUSSSSSA....", "....AUSSSSSA....", "...AUSSSSSSSA...", "...AUSSSSSSSA...", "...ATTTAAAAAA...", "................"], "left2": ["................", "................", "................", "................", "................", "......AAAA......", ".....ACCBCAA....", "....ACBBBCBBA...", "...ABBBBBBBBBA..", "..AEGFEXXXXXXNA.", "..ABDBBBBBBBBBA.", "..ADHDBBBBBBBBA.", "...AHHHDBBBBBBA.", "...AHHHHDBBBDBA.", "...AHIHHHDBBLABA", "...AHIHHHHHALDBA", "...AMHKHHHHALABA", "....AHHHHJAA.LA.", ".....NNNNNN.AL..", ".....AQQQQAOOL..", "....ARQQQPPALOA.", "....ARQQRQPALOA.", "....ARRRQPRALA..", "....AOENNNGA....", ".....ASSSSA.....", ".....ASSWSA.....", "....AUSSSSSA....", "....AUSSSSSA....", "...AUSSSSSSSA...", "...AUSSSSSSSA...", "...AAAAAAATTA...", "................"], "right0": ["................", "................", "................", "................", "................", "......AAAA......", "....AACBCCA.....", "...ABBCBBBCA....", "..ABBBBBBBBBA...", ".ANXXXXXXEFGEA..", ".ABBBBBBBBBDBA..", ".ABBBBBBBBDHDA..", ".ABBBBBBDHHHA...", ".ABDBBBDHHHHA...", ".ABLBBDHHHIHA...", ".ABLDAHHHHIHA...", ".ABLAHHHHKHMA...", "..L.AAJHHHHA....", "..LA.NNNNNN.....", "..LOOAQQQQA.....", ".AOLAPPQQQRA....", ".AOLAPQRQQRA....", "..ALAPPQRRRA....", "....ANNNGEOA....", ".....ASSSSA.....", ".....ASWSSA.....", "....ASSSSSUA....", "....ASSSSSUA....", "...ASSSSSSSUA...", "...ASSSSSSSUA...", "...AATTAATTAA...", "................"], "right1": ["................", "................", "................", "................", "................", "......AAAA......", "....AACBCCA.....", "...ABBCBBBCA....", "..ABBBBBBBBBA...", ".ANXXXXXXEFGEA..", ".ABBBBBBBBBDBA..", ".ABBBBBBBBDHDA..", "ABDBBBBBDHHHA...", "ABDDBBBDHHHHA...", "ABDLBHDHHHIHA...", "ABDLAHHHHHIHA...", "ABALAHHHHKHMA...", ".ALAAAJHHHHA....", "..LO.NNNNNN.....", ".ALOOAQQQQA.....", ".AOLAPPQQQRA....", "..ALAPQRQQQA....", "...LAPPQRRGA....", "....ANNNNEOA....", ".....ASSSSA.....", ".....ASWSSA.....", "....ASSSSSUA....", "....ASSSSSUA....", "...ASSSSSSSUA...", "...ASSSSSSSUA...", "...AAAAAATTTA...", "................"], "right2": ["................", "................", "................", "................", "................", "......AAAA......", "....AACBCCA.....", "...ABBCBBBCA....", "..ABBBBBBBBBA...", ".ANXXXXXXEFGEA..", ".ABBBBBBBBBDBA..", ".ABBBBBBBBDHDA..", ".ABBBBBBDHHHA...", ".ABDBBBDHHHHA...", "ABALBBDHHHIHA...", "ABDLAHHHHHIHA...", "ABALAHHHHKHMA...", ".AL.AAJHHHHA....", "..LA.NNNNNN.....", "..LOOAQQQQA.....", ".AOLAPPQQQRA....", ".AOLAPQRQQRA....", "..ALARPQRRRA....", "....AGNNNEOA....", ".....ASSSSA.....", ".....ASWSSA.....", "....ASSSSSUA....", "....ASSSSSUA....", "...ASSSSSSSUA...", "...ASSSSSSSUA...", "...ATTAAAAAAA...", "................"]}}};

diff --git a/src/game/sprite/overworld-sprite.ts b/src/game/sprite/overworld-sprite.ts
@@ -1,5 +1,6 @@
 import { shadeColor } from "../color-utils";
 import { ARCHETYPES, WALKERS } from "./walker-data.generated";
+import { MOB_TEMPLATES } from "./mob-walker-data.generated";
 
 /**
  * マップを歩くキャラクターのドット絵（16×32、4方向×3コマ）。`docs/design/pixel-character-guide.md` 第7・8節、
@@ -24,6 +25,8 @@ export interface SpriteSpec {
   headband?: boolean;
   /** 手描きの絵（`walker-data.generated.ts`）がある人物の名前。あれば、素体＋色の代わりにそれを使う。 */
   handKey?: string;
+  /** 町の人（モブ）の2頭身の素体の名前（`mob-walker-data.generated.ts`）。あれば、主要キャラと同じ作りの絵を、髪・肌・服の色で塗り替えて使う。 */
+  mobTemplate?: string;
 }
 
 export const SPRITE_WIDTH = 16;
@@ -235,7 +238,20 @@ function recolorArchetype(
   );
 }
 
+/** 町の人の2頭身の素体を、髪・肌・服・飾りの色で塗り替える。同じ役割の色の明暗の差は、そのまま保つ。 */
+function recolorMob(spec: SpriteSpec, dir: SpriteDir, frame: SpriteFrame): SpritePixels | null {
+  const tpl = spec.mobTemplate ? MOB_TEMPLATES[spec.mobTemplate] : undefined;
+  if (!tpl) return null;
+  const base: Record<string, string> = { hair: spec.hair, skin: spec.skin, top: spec.top, bottom: spec.bottom || spec.top, accent: spec.accent };
+  const colors = tpl.palette.map((c, i) => (tpl.roles[i] === "fixed" ? c : shadeColor(base[tpl.roles[i]] ?? c, tpl.shade[i])));
+  return tpl.frames[`${dir}${frame}`].map((row) => [...row].map((ch) => (ch === "." ? null : colors[LETTERS.indexOf(ch)])));
+}
+
 export function buildSpritePixels(spec: SpriteSpec, dir: SpriteDir, frame: SpriteFrame): SpritePixels {
+  const mob = recolorMob(spec, dir, frame);
+  if (mob) {
+    return mob;
+  }
   const arch = !spec.handKey ? ARCHETYPES[spec.hairStyle === "short" ? "short" : spec.hairStyle] : undefined;
   if (arch) {
     return recolorArchetype(arch, spec, dir, frame);

diff --git a/src/game/sprite/character-specs.ts b/src/game/sprite/character-specs.ts
@@ -20,6 +20,10 @@ export function spriteSpecFromPortrait(spec: PortraitSpec, name?: string): Sprit
 /** 主人公ユーリ。 */
 export const HERO_SPRITE: SpriteSpec = spriteSpecFromPortrait(PORTRAITS["ユーリ"], "ユーリ");
 
+/** 町の人の2頭身の素体（レト・ユーリ・ミナ・ガイドと同じ作りの絵）。 */
+const MOB_BODIES = ["reto", "yuri", "mina", "guide"];
+const MOB_ACCENTS = ["#d8b048", "#c0504a", "#4a78b0", "#58985a", "#8a58a8", "#e8e0d0", "#d8803a"];
+const MOB_BOTTOMS = ["#5a4a3a", "#4a4a5a", "#3a4a5a", "#6a5a4a", "#4a3a3a", "#5a5a48"];
 const SKINS = ["#f2c9a0", "#e6bd8f", "#d9a67a", "#c58f66", "#b98860", "#f4d8c0"];
 const HAIRS = ["#3a2a20", "#6a4a2a", "#8a3a2a", "#c8a050", "#1e1e2a", "#5a3a4a", "#a0a0a8", "#e0e0e6"];
 
@@ -39,11 +43,12 @@ export function spriteSpecForNpc(npc: { id: string; color: string; spriteName?: 
   const h = (n: number): number => hashCell(seed, n);
   const styles = ["short", "short", "long", "twin"] as const;
   return {
+    mobTemplate: MOB_BODIES[h(6) % MOB_BODIES.length],
     skin: SKINS[h(1) % SKINS.length],
     hair: HAIRS[h(2) % HAIRS.length],
     top: npc.color,
-    bottom: shadeColor(npc.color, -0.5),
-    accent: shadeColor(npc.color, h(3) % 2 === 0 ? 0.35 : -0.3),
+    bottom: MOB_BOTTOMS[h(7) % MOB_BOTTOMS.length] ?? shadeColor(npc.color, -0.5),
+    accent: MOB_ACCENTS[h(3) % MOB_ACCENTS.length],
     hairStyle: styles[h(4) % styles.length],
     headband: h(5) % 6 === 0,
   };

diff --git a/src/render/sprite-renderer.ts b/src/render/sprite-renderer.ts
@@ -3,7 +3,7 @@ import { buildSpritePixels, SPRITE_HEIGHT, SPRITE_WIDTH, spriteRuns, type Sprite
 const cache = new Map<string, SpriteRun[]>();
 
 function runsFor(spec: SpriteSpec, dir: SpriteDir, frame: SpriteFrame): SpriteRun[] {
-  const key = `${spec.skin}|${spec.hair}|${spec.top}|${spec.bottom}|${spec.accent}|${spec.hairStyle}|${spec.headband ? 1 : 0}|${dir}|${frame}`;
+  const key = `${spec.handKey ?? ""}|${spec.mobTemplate ?? ""}|${spec.skin}|${spec.hair}|${spec.top}|${spec.bottom}|${spec.accent}|${spec.hairStyle}|${spec.headband ? 1 : 0}|${dir}|${frame}`;
   let runs = cache.get(key);
   if (!runs) {
     runs = spriteRuns(buildSpritePixels(spec, dir, frame));

diff --git a/tools/pixel-art/export_mob_walkers.py b/tools/pixel-art/export_mob_walkers.py
@@ -1,0 +1,48 @@
+"""町の人（モブ）の歩く絵の素体を、主要キャラと同じ2頭身の絵（assets-src/characters/walk-2head/*.json）から作る。
+使い方: python3 tools/pixel-art/export_mob_walkers.py
+出力: src/game/sprite/mob-walker-data.generated.ts（手で編集しない）
+
+どの色を「髪・肌・服・飾り」として塗り替えるかは、ROLES に、色の記号（palette の何番目か）で書く。
+書いていない色（縁取り・目・白・金具・革など）は、そのまま使う。塗り替えるときは、同じ役割の色の明るさの差（影・地・明）を保つ。"""
+import json, colorsys, pathlib
+
+ROOT = pathlib.Path(__file__).resolve().parents[2]
+SRC = ROOT / "assets-src/characters/walk-2head"
+LETTERS = "ABCDEFGHIJKLMNOPQRSTUVWXYZabcdefghijklmnopqrstuvwxyz0123456789"
+
+# 素体の名前 → (元の人物, {役割: 色の記号})
+TEMPLATES = {
+    "reto": ("レト", {"hair": "BCD", "skin": "EGHI", "accent": "JK", "top": "LMO", "bottom": "PQRSVW"}),
+    "yuri": ("ユーリ", {"hair": "BCD", "skin": "GIJK", "accent": "EF", "top": "LMO", "bottom": "QRSTUW"}),
+    "mina": ("ミナ", {"hair": "BCE", "skin": "GKLM", "accent": "DI", "top": "NOPQSTUVWX"}),
+    "guide": ("ガイド", {"hair": "BCDX", "skin": "HJKM", "accent": "ION", "top": "PQRSUWY"}),
+}
+
+def lum(hexv):
+    h = hexv.lstrip("#")
+    r, g, b = (int(h[i:i + 2], 16) / 255 for i in (0, 2, 4))
+    return colorsys.rgb_to_hls(r, g, b)[1]
+
+out = {}
+for key, (name, groups) in TEMPLATES.items():
+    d = json.load(open(SRC / f"{name}.json"))
+    pal = d["palette"]
+    roles = ["fixed"] * len(pal)
+    shade = [0.0] * len(pal)
+    for role, letters in groups.items():
+        idx = [LETTERS.index(c) for c in letters]
+        ls = sorted(lum(pal[i]) for i in idx)
+        med = ls[len(ls) // 2]
+        for i in idx:
+            roles[i] = role
+            shade[i] = round(max(-0.6, min(0.6, (lum(pal[i]) - med) * 1.25)), 3)
+    frames = {k: v for k, v in d["frames"].items() if k[:-1] in ("down", "up", "left", "right") and k[-1] in "012"}
+    out[key] = {"palette": pal, "roles": roles, "shade": shade, "frames": frames}
+
+ts = (
+    "// 自動生成: tools/pixel-art/export_mob_walkers.py（手で編集しない）。町の人（モブ）の2頭身の素体4種\n"
+    "export interface MobTemplate {\n  palette: string[];\n  roles: string[];\n  shade: number[];\n  frames: Record<string, string[]>;\n}\n\n"
+    "export const MOB_TEMPLATES: Record<string, MobTemplate> = " + json.dumps(out, ensure_ascii=False) + ";\n"
+)
+(ROOT / "src/game/sprite/mob-walker-data.generated.ts").write_text(ts, encoding="utf-8")
+print("書き出し:", ", ".join(out), len(ts) // 1024, "KB")

diff --git a/docs/decisions.md b/docs/decisions.md
@@ -417,3 +417,9 @@
 - **ベッドが壁をつきぬける**: ベッドの絵が部屋の右のかべにはみ出していた。ベッドを1マス左へ寄せ、横にはばのある家具（本棚・箪笥・ベッド・テーブル）のとなりのマスも通れなくした。
 - **家の中を画面の中央に・家具を壁にぴったり（人間の依頼）**: 地図が画面より小さいとき（家の中など）は、地図を画面の中央に置く（`camera.ts`）。家の奥の壁を2段にして、本棚・箪笥・ベッドを壁にぴったりつけた。
 - **箪笥・本棚の奥行き**: 前から見た平らな絵だったので、天板の上の面が見える絵に描きなおした（`interior.py`）。箪笥の上に、写し絵（金のわく）と花びんを足した（会話の「写し絵がかざってある」と合う）。
+
+## 2026-10-04 モブキャラをユーリ・ミナと同じ2頭身の作りに（人間の依頼）
+
+- 町の人（モブ）の歩く絵が、前の作り（頭の小さい素体）で、主要キャラ（2頭身）と並ぶと浮いていた。主要キャラの2頭身の絵（`assets-src/characters/walk-2head/`）のレト・ユーリ・ミナ・ガイドを素体にして、髪・肌・服・飾りの色を塗り替えた4種に変えた（`tools/pixel-art/export_mob_walkers.py` → `mob-walker-data.generated.ts`、塗り替えは `overworld-sprite.ts` の `recolorMob`）。同じ役割の色の明暗の差は保つ。
+- どの色を塗り替えるかは、`export_mob_walkers.py` の `TEMPLATES` に、色の記号で書いてある。目・白・金具・縁取りは、そのまま。
+- 町の人の見た目（素体・髪・肌・服・飾り・ズボンの色）は、NPCのIDから決まる（毎回同じ）。数値・組み合わせは仮。素体が4種なので、体つき・髪型の種類はまだ少ない（老人・子ども・太った人・帽子などの素体は、これから）。
